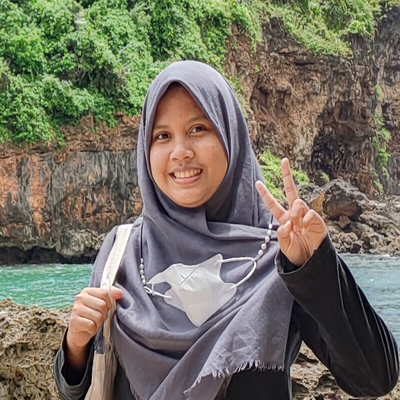
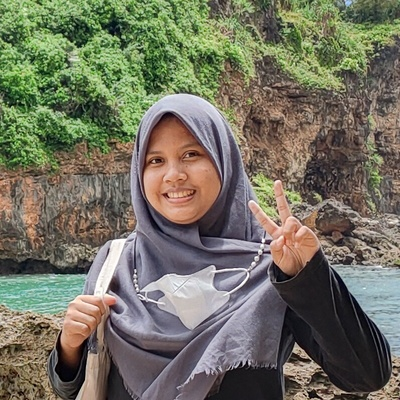
Fixing Couple Pictures

diff --git a/index.html b/index.html
@@ -120,7 +120,7 @@
               </div>
               <div class="col-4">
                 <img
-                  src="resources/img/Pas Foto (Employed).png"
+                  src="resources/img/mamat.png"
                   alt="Muhammad Mujahid"
                   class="img-responsive rounded-circle"
                 />
